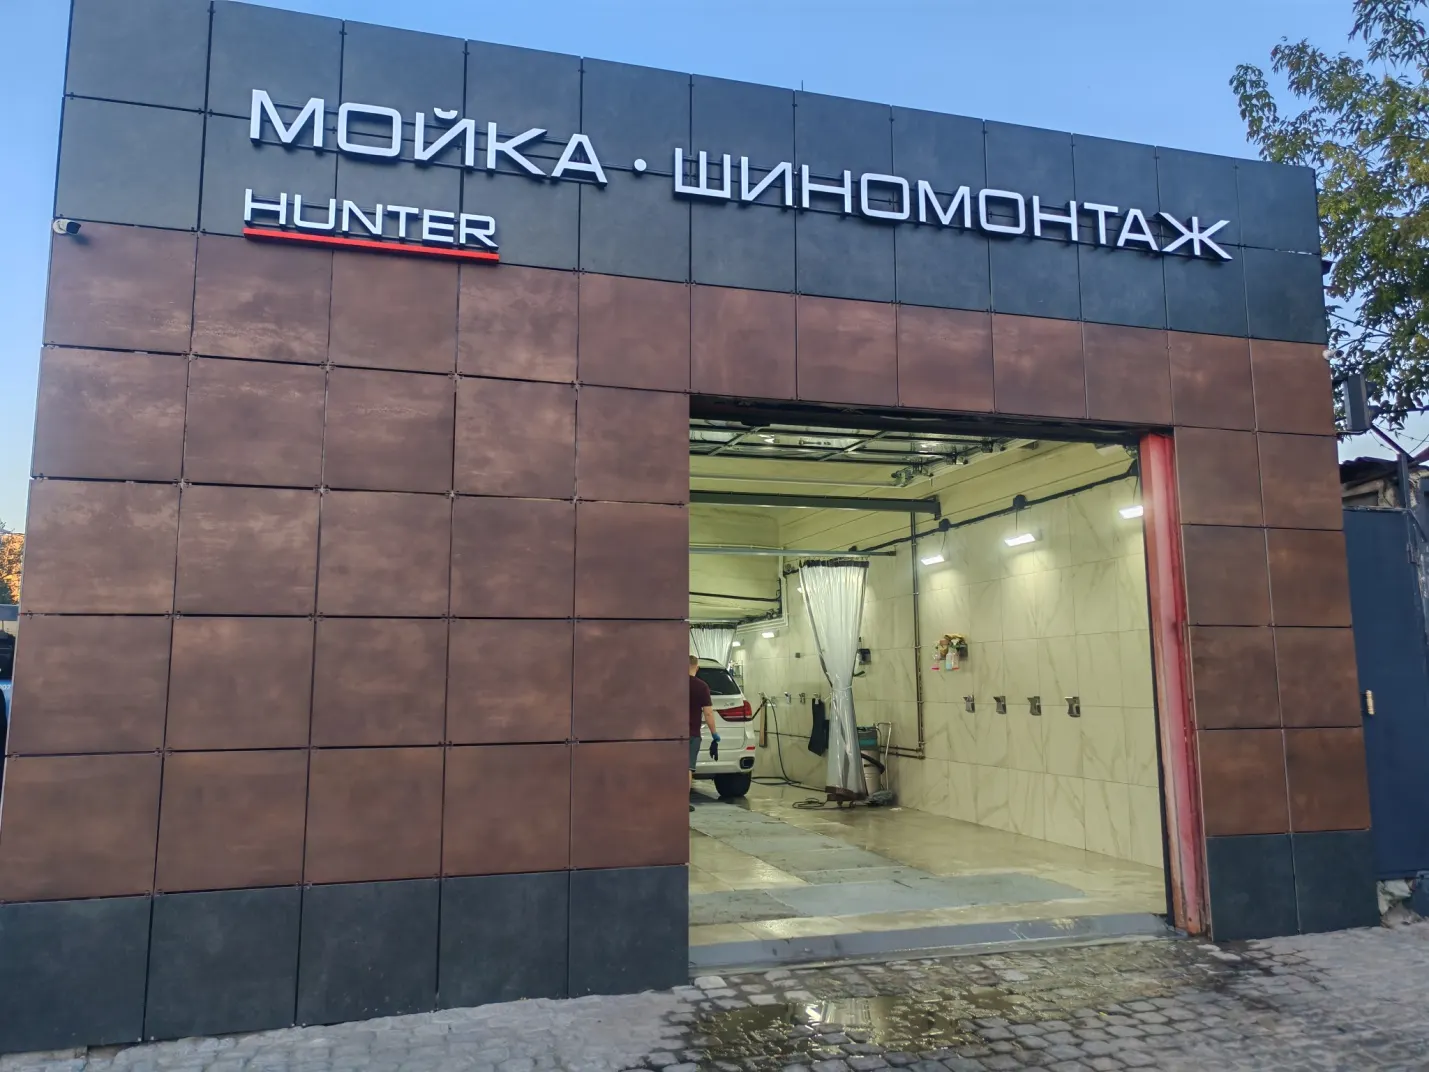
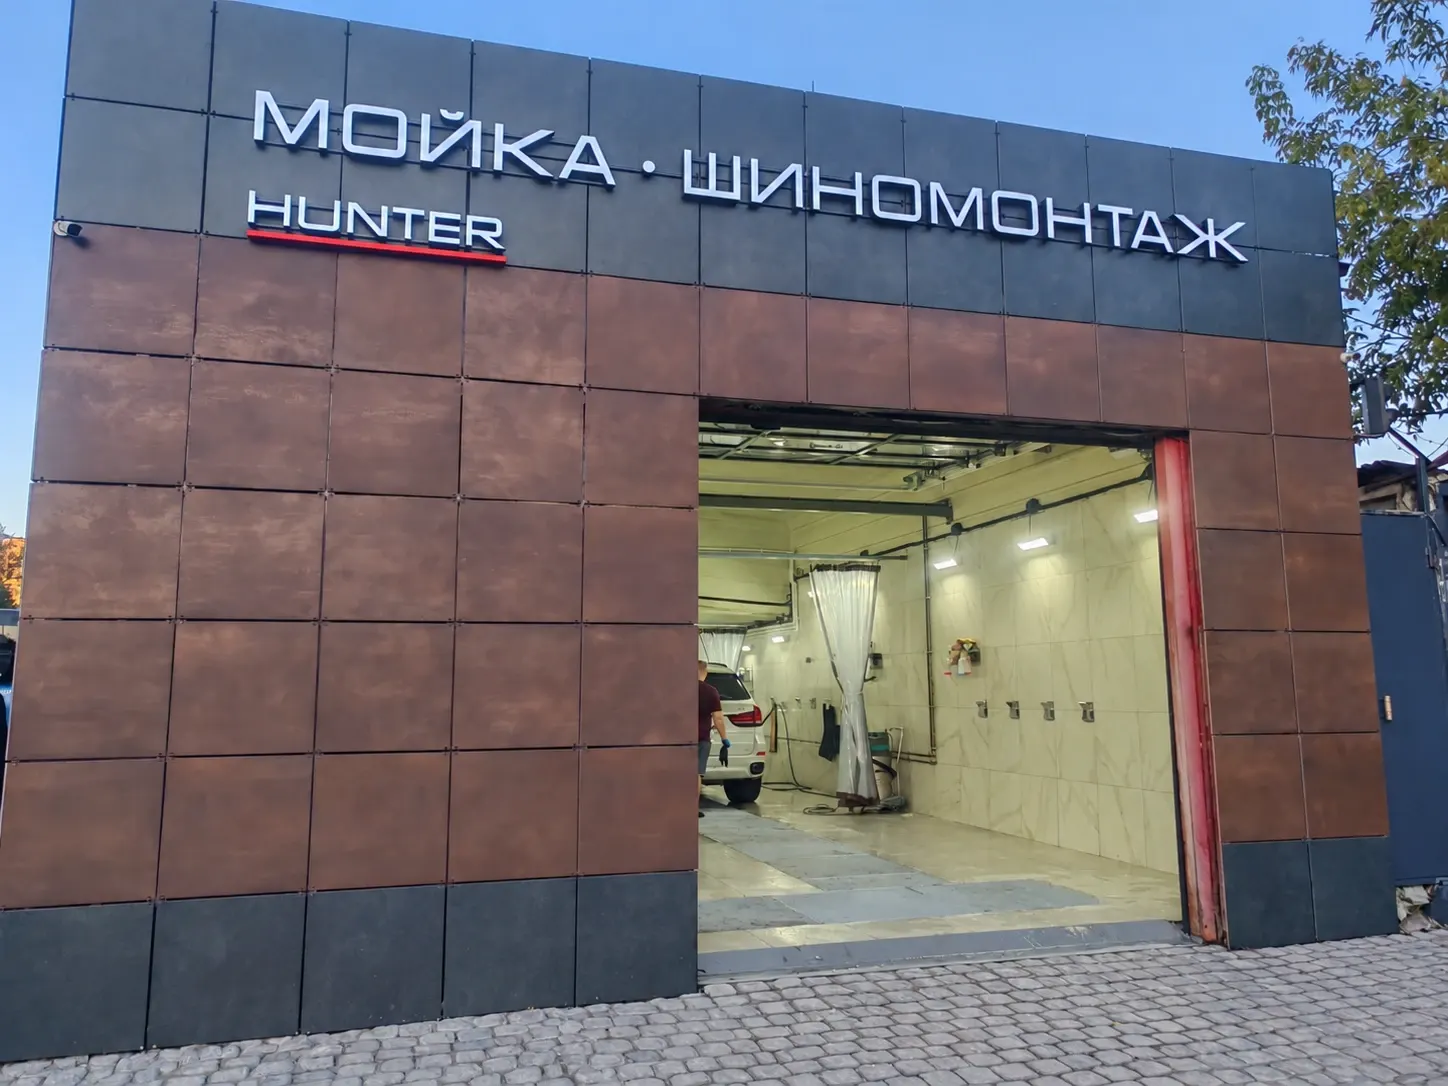
Новое фото фасада, чистая брусчатка

diff --git a/index.html b/index.html
@@ -36,7 +36,7 @@
       <p class="s-lead">Улица Маршала Чуйкова, 17. Безопасный шиномонтаж на роботизированном станке, балансировка с виброконтролем на оборудовании Hunter USA, ремонт колёс, правка дисков. Рядом автомойка.</p>
       <ul class="s-ticks"><li>Каждый день с 08:00 до 22:00</li><li>Комната ожидания с кофе-машиной</li><li>Оплата картой, наличными или переводом</li></ul>
       <p class="s-rating"><b>4,8</b> на Яндекс.Картах · 628 отзывов</p>
-      <figure class="s-hero__photo"><img class="" src="assets/hero.webp" alt="Фасад в плитке под медь с вывеской «Мойка · Шиномонтаж» и надписью Hunter, открытый въезд в бокс" loading="lazy" decoding="async" style="object-position:50% 45%"></figure>
+      <figure class="s-hero__photo"><img class="" src="assets/hero.webp" alt="Фасад в плитке под медь с вывеской «Мойка · Шиномонтаж» и надписью Hunter, открытый въезд в бокс" loading="lazy" decoding="async" style="object-position:50% 18%"></figure>
     </div>
     <div class="s-hero__widget" id="widget"><form class="s-widget" data-s-booking data-days="7" data-closed="" data-slots="08:00,09:00,10:00,11:00,12:00,13:00,14:00,15:00,16:00,17:00,18:00,19:00,20:00,21:00" data-message="Здравствуйте! Хочу записаться: {услуга}, {день} в {время}." onsubmit="return false">
       <h2 class="s-widget__title">Запись на шиномонтаж</h2>
@@ -53,7 +53,7 @@
       <p class="s-send__note" data-s-copied hidden>Текст скопирован – вставьте его в чат.</p>
       
     </form></div>
-    <figure class="s-hero__bg" aria-hidden="true"><img class="" src="assets/hero.webp" alt="Фасад в плитке под медь с вывеской «Мойка · Шиномонтаж» и надписью Hunter, открытый въезд в бокс" decoding="async" style="object-position:50% 45%" fetchpriority="high"></figure>
+    <figure class="s-hero__bg" aria-hidden="true"><img class="" src="assets/hero.webp" alt="Фасад в плитке под медь с вывеской «Мойка · Шиномонтаж» и надписью Hunter, открытый въезд в бокс" decoding="async" style="object-position:50% 18%" fetchpriority="high"></figure>
   </section>
 
   <section class="s-section s-reveal">

diff --git a/style-prod.css b/style-prod.css
@@ -257,6 +257,5 @@ main { max-width: var(--wrap); margin: 0 auto; padding: 0 var(--gut); }
   .s-hero__text { display: flex; flex-direction: column; }
   .s-hero__photo { display: block; order: -1; margin: 0 0 18px; }
   .s-hero__photo img { aspect-ratio: 4 / 3; max-height: 380px; }
-  .s-hero__bg { display: none; }
 }
 /* мобильный первый экран: конец */
